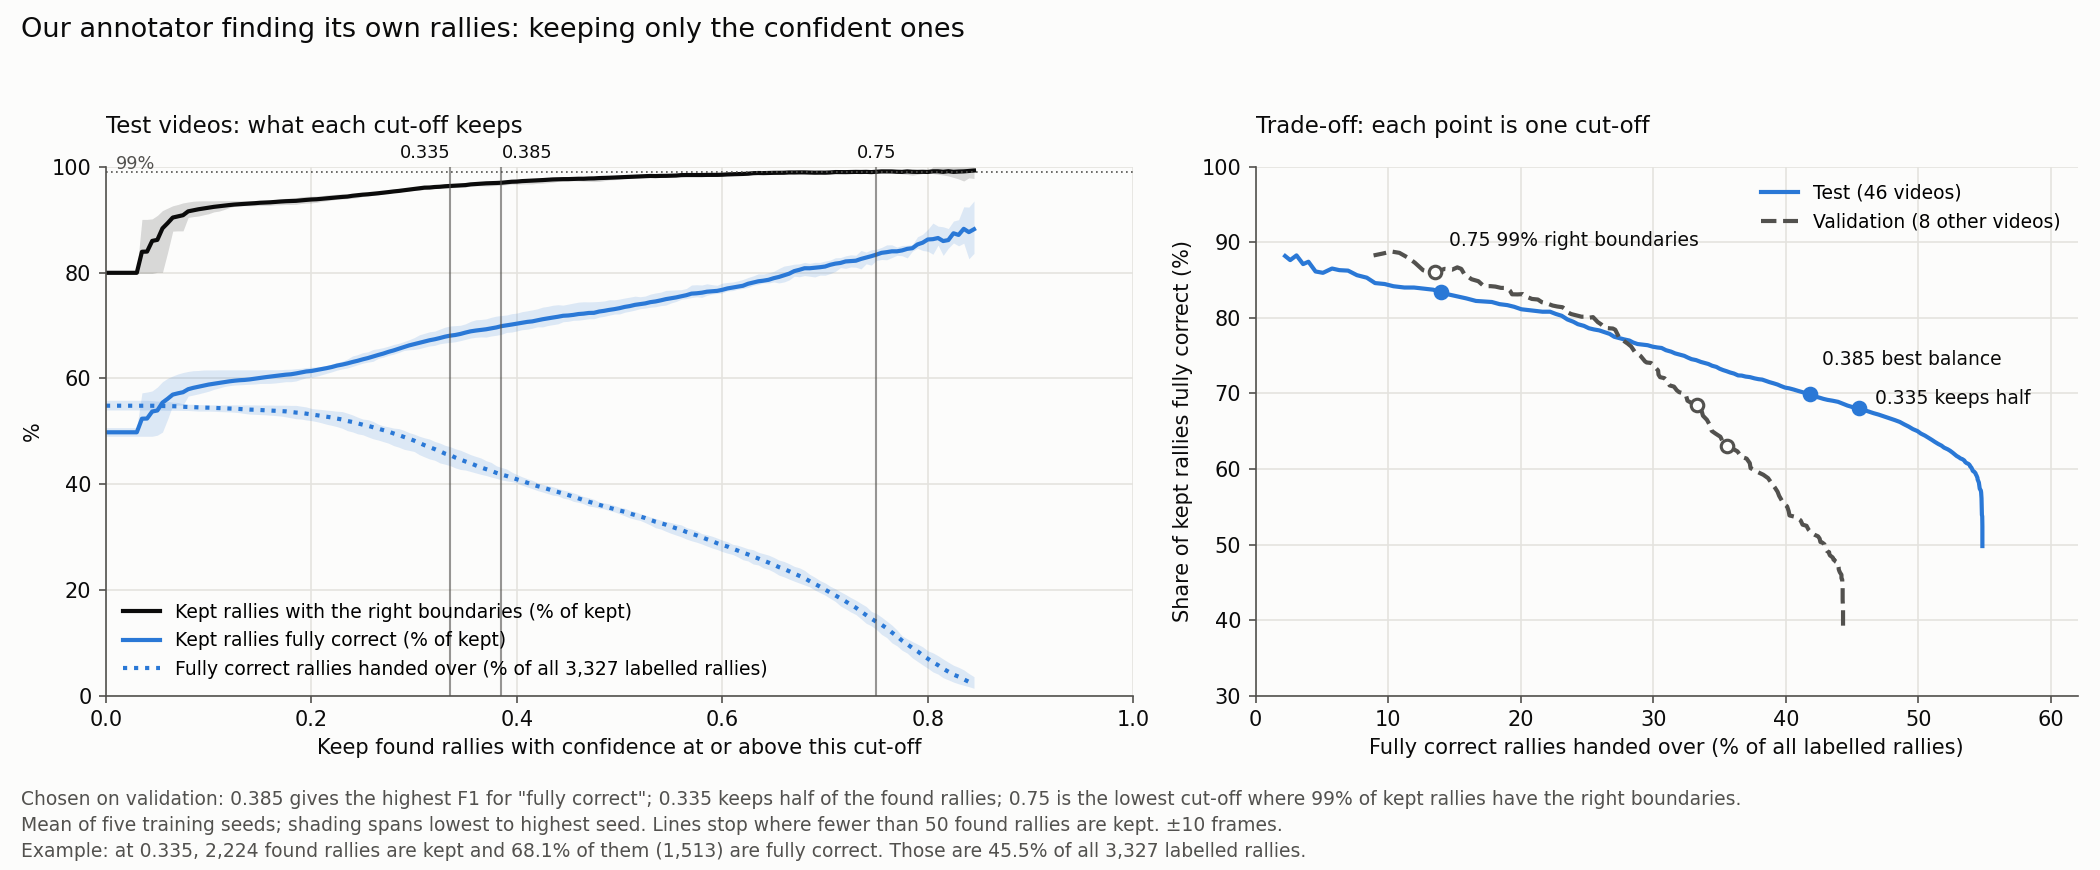
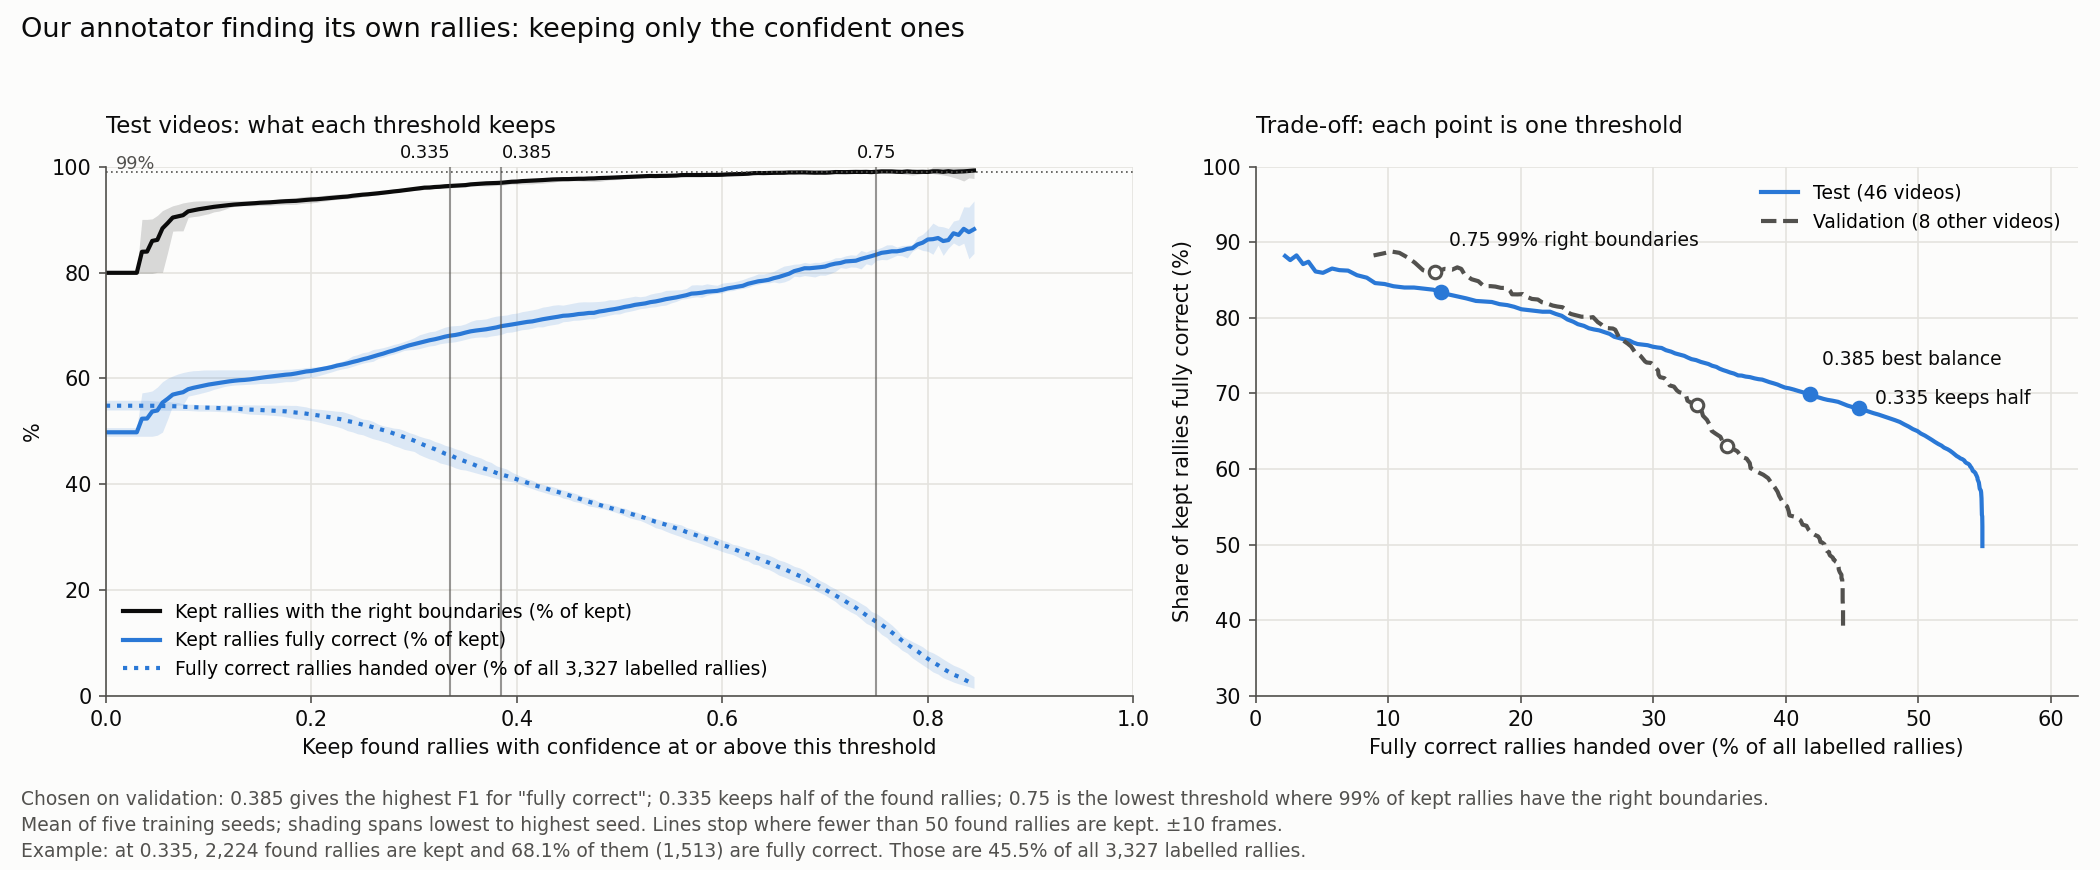
Fix report v5 wording

diff --git a/experiments/annotator/monotrack_benchmark/writeup_scripts/make_figures.py b/experiments/annotator/monotrack_benchmark/writeup_scripts/make_figures.py
@@ -335,9 +335,9 @@ def confidence_figure(data: Path, out: Path) -> None:
                   color=TEXT)
     left.set_xlim(0, 1)
     left.set_ylim(0, 100)
-    left.set_xlabel('Keep found rallies with confidence at or above this cut-off', color=TEXT)
+    left.set_xlabel('Keep found rallies with confidence at or above this threshold', color=TEXT)
     left.set_ylabel('%', color=TEXT)
-    left.set_title('Test videos: what each cut-off keeps', fontsize=11, color=TEXT, loc='left', pad=16)
+    left.set_title('Test videos: what each threshold keeps', fontsize=11, color=TEXT, loc='left', pad=16)
     left.legend(loc='lower left', frameon=False, fontsize=9)
 
     style_axes(right, 'both')
@@ -359,13 +359,13 @@ def confidence_figure(data: Path, out: Path) -> None:
     right.set_ylim(30, 100)
     right.set_xlabel('Fully correct rallies handed over (% of all labelled rallies)', color=TEXT)
     right.set_ylabel('Share of kept rallies fully correct (%)', color=TEXT)
-    right.set_title('Trade-off: each point is one cut-off', fontsize=11, color=TEXT, loc='left', pad=16)
+    right.set_title('Trade-off: each point is one threshold', fontsize=11, color=TEXT, loc='left', pad=16)
     right.legend(loc='upper right', frameon=False, fontsize=9)
     figure.suptitle('Our annotator finding its own rallies: keeping only the confident ones', fontsize=13, color=TEXT,
                     x=0.01, ha='left')
     figure.text(0.01, 0.075, f'Chosen on validation: {cutoff_text(cutoffs["balanced"])} gives the highest F1 for '
                 f'"fully correct"; {cutoff_text(cutoffs["keep_half"])} keeps half of the found rallies; '
-                f'{cutoff_text(cutoffs["boundaries_99"])} is the lowest cut-off where 99% of kept rallies have the right '
+                f'{cutoff_text(cutoffs["boundaries_99"])} is the lowest threshold where 99% of kept rallies have the right '
                 'boundaries.', fontsize=9, color=MUTED)
     figure.text(0.01, 0.045, f'Mean of five training seeds; shading spans lowest to highest seed. Lines stop where fewer '
                 f'than {MIN_KEPT} found rallies are kept. ±10 frames.', fontsize=9, color=MUTED)

diff --git a/experiments/annotator/monotrack_benchmark/annotator_monotrack_own_weights_compared_writeup_v5.md b/experiments/annotator/monotrack_benchmark/annotator_monotrack_own_weights_compared_writeup_v5.md
@@ -42,7 +42,7 @@ rule settings tuned on the same 32 videos.
 - **Our annotator can also find the rallies itself.** MonoTrack's released code
   needs each rally cut out beforehand. Working from the whole video, ours gets
   54.8% of rallies fully correct, and 88.0% have the right start and end. Its
-  confidence score can pick out a cleaner subset: at a cut-off of 0.335, it
+  confidence score can pick out a cleaner subset: at a threshold of 0.335, it
   keeps 2,224 of about 3,663 found rallies, and 68.1% of those are fully correct:
   1,513 rallies, or 45.5% of all labelled rallies (Figure 6).
 - **Both court detectors place the court close enough that swapping courts
@@ -177,22 +177,22 @@ account for most of the drop:
 ### Keeping only the confident rallies
 
 Each found rally gets a confidence score from one of the trees. The score was
-trained to predict whether the rally is fully correct. Raising the cut-off keeps
-fewer rallies, and more of those kept are right (Figure 6). No single cut-off
-suits every use, so Figure 6's right panel shows the whole trade-off. Each
-point on that curve is one cut-off. Moving left along it hands over fewer
+trained to predict whether the rally is fully correct. Raising the threshold
+keeps fewer rallies, and more of those kept are right (Figure 6). No single
+threshold suits every use, so Figure 6's right panel shows the whole trade-off.
+Each point on that curve is one threshold. Moving left along it hands over fewer
 rallies, and more of those are right.
 
-Figure 6 and Table 3 mark three cut-offs:
+Figure 6 and Table 3 mark three thresholds:
 
 - **0.335, keeps half.** On the 8 validation videos, it keeps half of the
   found rallies.
 - **0.385, the best balance.** On the validation videos, it gives the highest
   F1 for picking out fully correct rallies.
-- **0.75, for boundaries.** On the validation videos, it is the lowest cut-off
+- **0.75, for boundaries.** On the validation videos, it is the lowest threshold
   at which 99% of kept rallies have the right start and end.
 
-Table 3. Test results at each cut-off, five-seed means. Each seed finds about
+Table 3. Test results at each threshold, five-seed means. Each seed finds about
 3,663 rallies, more than the 3,327 labelled ones: about 645 of them match no
 labelled rally, and about 89 cover only part of one or join two. The two share
 columns are shares of the kept rallies. The next column counts the kept rallies
@@ -200,7 +200,7 @@ with the right start and end, whether or not their hits are right. The last
 column counts the kept rallies that are fully correct, with their share of all
 3,327 labelled rallies.
 
-| Cut-off | Rallies kept (of 3,663 found) | Share fully correct | Share with the right start and end | Kept rallies with the right start and end | Fully correct rallies handed over |
+| Threshold | Rallies kept (of 3,663 found) | Share fully correct | Share with the right start and end | Kept rallies with the right start and end | Fully correct rallies handed over |
 |---|---:|---:|---:|---:|---:|
 | 0.335 | 2,224 | 68.1% | 96.4% | 2,144 | 1,513 (45.5%) |
 | 0.385 | 1,992 | 69.9% | 97.0% | 1,932 | 1,391 (41.8%) |
@@ -216,7 +216,7 @@ end. At 0.335, 2,144 of the 2,224 kept rallies have the right start and end,
 and 1,513 are fully correct. That leaves about 630 rallies with the right
 start and end that need only their hits corrected.
 
-If only the start and end matter, the 0.75 cut-off, chosen on validation,
+If only the start and end matter, the 0.75 threshold, chosen on validation,
 keeps 557 test rallies, and 99.1% of them have the right start and end. On
 test, that share first reaches 99% at 0.71, keeping 774 rallies, but that value is read off
 the test set itself. The validation videos are harder for the annotator: 44.3%
@@ -224,10 +224,10 @@ of their rallies come out fully correct, against 54.8% on test. At 0.75 each
 seed keeps only about 105 validation rallies, so that choice rests on few
 rallies.
 
-![Confidence cut-off against kept-rally shares, and the trade-off between accuracy and rallies handed over](writeup_figures/v5/fig6_confidence.png)
+![Confidence threshold against kept-rally shares, and the trade-off between accuracy and rallies handed over](writeup_figures/v5/fig6_confidence.png)
 
-Figure 6. Left: on the test videos, what each cut-off keeps. Right: the share of
-kept rallies that are fully correct, against the fully correct rallies handed
+Figure 6. Left: on the test videos, what each threshold keeps. Right: the share
+of kept rallies that are fully correct, against the fully correct rallies handed
 over as a share of all labelled rallies, for test and validation. Lines are the
 mean of five seeds; shading spans the lowest to highest seed.
 
@@ -498,12 +498,12 @@ means.
 | All rescaled to 30 fps | 85.09% | 293.0 | 83.29% | 242.2 |
 | All but acceleration rescaled | 85.21% | 292.8 | 83.42% | 241.6 |
 
-**Confidence cut-offs.** The three cut-offs in Table 3 were chosen on the same
-8 validation videos. The 0.335 cut-off keeps half of the found rallies, pooled
-over the five seeds. The 0.385 cut-off gives the highest five-seed mean F1 for
-picking fully correct rallies. The 0.75 cut-off is the lowest at which 99% of
-kept rallies, pooled over the five seeds, have the right start and end. The
-last two were searched in steps of 0.005.
+**Confidence thresholds.** The three thresholds in Table 3 were chosen on the
+same 8 validation videos. The 0.335 threshold keeps half of the found rallies,
+pooled over the five seeds. The 0.385 threshold gives the highest five-seed mean
+F1 for picking fully correct rallies. The 0.75 threshold is the lowest at which
+99% of kept rallies, pooled over the five seeds, have the right start and end.
+The last two were searched in steps of 0.005.
 
 ## Appendix C: Our court detector's two modes
 
@@ -620,7 +620,7 @@ At ±5 frames the two systems find hits about equally well (95.0% against
   Refit times: `../tree_simplification/results/input-stage-costs.csv`.
 - MonoTrack training records: `hitnet_retrain/weights/`.
 - Confidence scores: each discovery prediction file holds its found rallies'
-  scores. The validation runs behind the cut-offs are in
+  scores. The validation runs behind the thresholds are in
   `benchmark_results/annotator_runs/validation/`.
 - The scripts that turn these results into this report's numbers, tables and
   figures: [`writeup_scripts/`](writeup_scripts/README.md).

diff --git a/experiments/annotator/monotrack_benchmark/writeup_scripts/README.md b/experiments/annotator/monotrack_benchmark/writeup_scripts/README.md
@@ -18,7 +18,7 @@ Run every command from the repository root.
 | [court_metrics.py](court_metrics.py) | Each rally's court error and IoU against ShuttleSet22's reference corners, for our per-rally, MonoTrack's and our per-scene courts. |
 | [fit_contact_40.py](fit_contact_40.py) | Refits the contact model on all 40 original ShuttleSet videos for each test bundle. First checks that refitting on 32 videos reproduces the bundle's contact model exactly. |
 | [annotator_runs.py](annotator_runs.py) | Runs our annotator's bundles on test (whole videos, and given rally bounds on both court sets) and in discovery mode on validation. Keeps each found rally's confidence score. The 32-video discovery runs must match the tracked predictions exactly. |
-| [confidence_cutoffs.py](confidence_cutoffs.py) | Chooses the confidence cut-offs on validation and reads them on test, for the cut-off table. |
+| [confidence_cutoffs.py](confidence_cutoffs.py) | Chooses the confidence thresholds on validation and reads them on test, for the threshold table. |
 | [left_out_rallies.py](left_out_rallies.py) | Counts the rallies with flawed labels for Appendix G. |
 | [flaw_scoring.py](flaw_scoring.py) | Scores discovery mode with the flawed rallies standard, ignored and counted, for Appendix G. |
 | [make_figures.py](make_figures.py) | Figures 1–6 and 10. |
